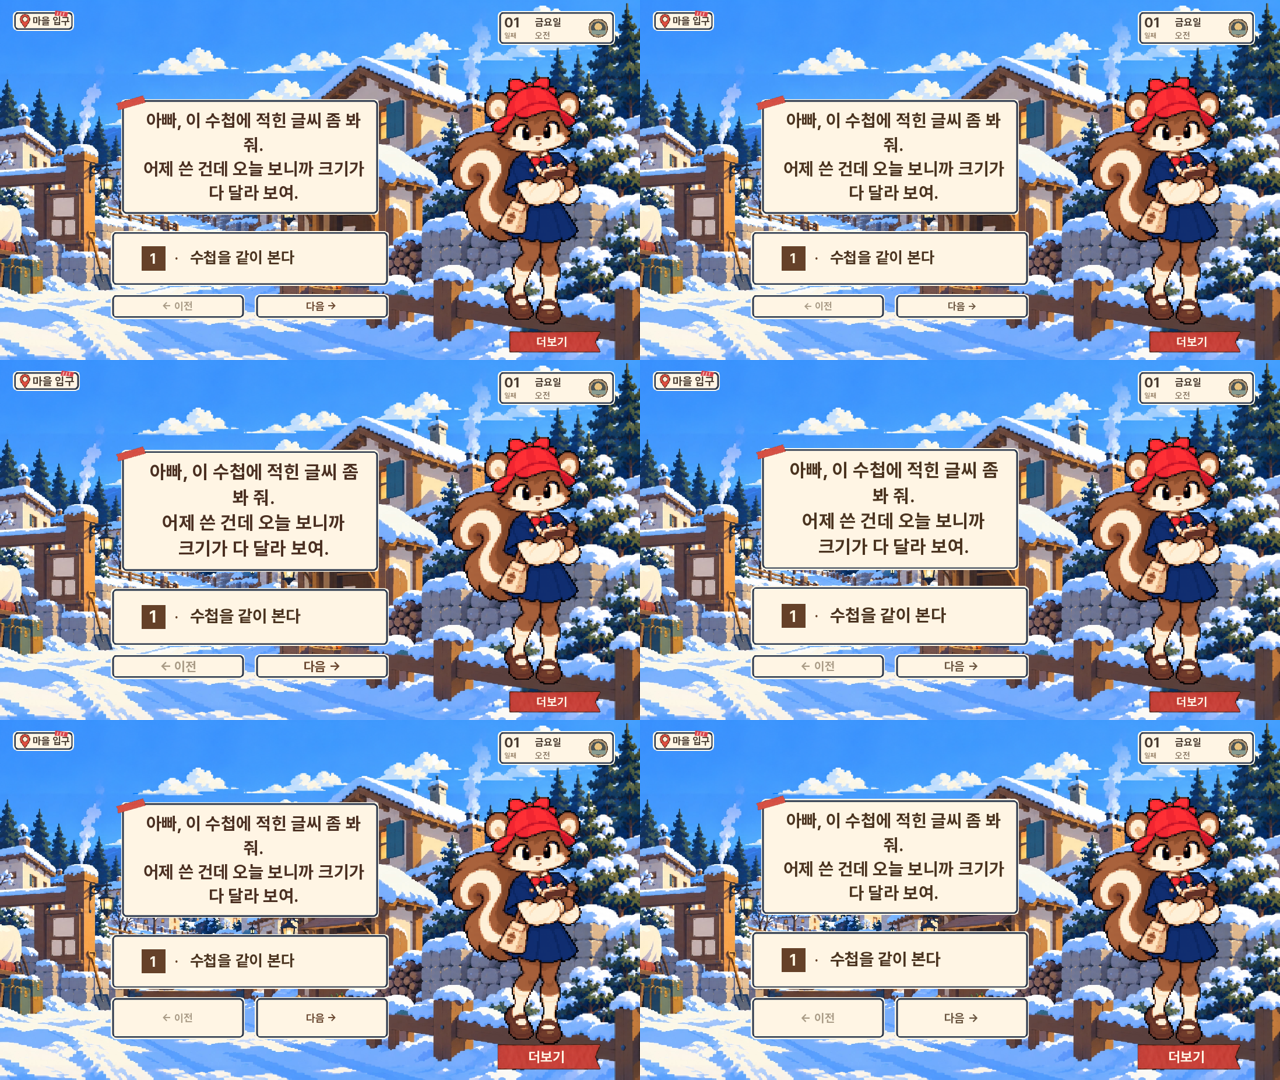
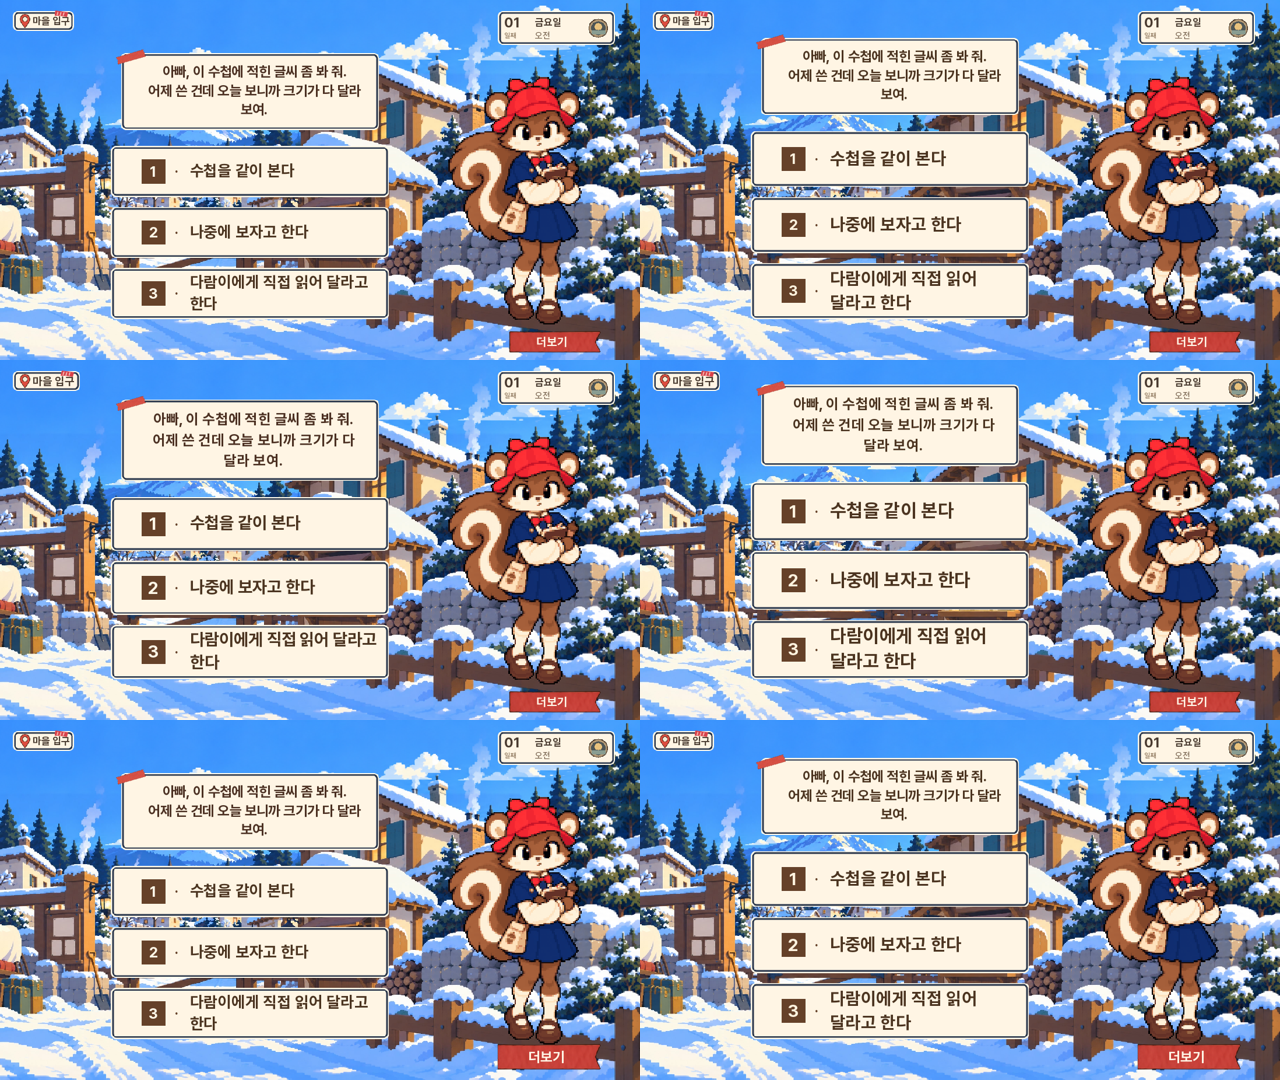
0.20.69: 선택지 하나짜리 창 없음, 쪽 나누기 정리, 타이포 시안 별표 크기·기록 목록 상한, 임시 캡처 시험 제거
Claude-Session: https://claude.ai/code/session_01SD1TdyVcqThxQnudEHaxaS

diff --git a/experiments/renpy-ch1/docs/releases/RELEASE_0.20.69.md b/experiments/renpy-ch1/docs/releases/RELEASE_0.20.69.md
@@ -1,0 +1,17 @@
+# 0.20.69
+
+소유자(2026-10-27): "선택지 하나짜리 선택지창이 존재하면 안 되지", "폰트 크기는 별표 친 게 마음에 드네".
+
+## 선택지 하나짜리 창 없음
+
+- 조건 때문에 선택지가 하나만 남은 메뉴는 창을 띄우지 않고 그 길로 바로 간다. 실제로 그런 곳은 13일 가족 제안(조건을 묻기 전까지 「조건을 더 묻는다」뿐)이었다.
+  1~14일 메뉴를 훑어 무조건 선택지가 하나뿐인 메뉴는 없었다.
+- 쪽 나누기: 넷 이하는 늘 한 쪽에 둔다. 칸은 글자가 든 높이 아래로 줄이지 않고, 그래도 안 맞으면 머리글을 한 단 작게 한다. 다섯 이상은 쪽마다 둘 이상이 되게 고르게 나눈다.
+- 캡처 확인: 13일 제안 선택 셋이 한 쪽에, 2줄 선택지도 겹치지 않는다.
+
+## 타이포그래피 V2 시안 갱신 (아직 꺼짐)
+
+별표 두 곳(대사창 36px, 기록 화면의 지금 휴대폰 크기)을 「보통」으로 삼아 단계표를 올렸다. 「크게」는 한 단 더.
+기록 목록 이름은 칸 높이가 고정이라 22 를 넘기지 않는다. 캡처 `docs/reviews/typography-20261027/`.
+
+사실·증거·생사·회의 정답·진행 조건은 바꾸지 않았다.

diff --git a/experiments/renpy-ch1/docs/reviews/typography-20261027/README.md b/experiments/renpy-ch1/docs/reviews/typography-20261027/README.md
@@ -1,4 +1,4 @@
-# 타이포그래피 V2 시안 (2026-10-27, 승인 전, 스위치 꺼짐)
+# 타이포그래피 V2 시안 (2026-10-27, 승인 전, 스위치 꺼짐) — 별표 크기 반영판
 
 왼쪽이 지금, 오른쪽이 시안. 위에서부터 PC 보통 / PC 큰 글씨 / 휴대폰 보통.
 규칙과 수치는 `docs/design/TYPOGRAPHY_V2.md`. 켜는 스위치는 `game/systems/room13_type_scale.rpy` 의 `R13_TYPE_V2`.
